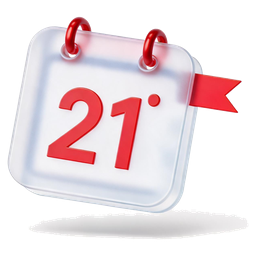
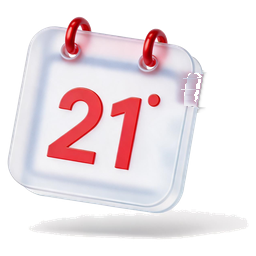
feat: UI优化 - 日历图标去除红旗、放大功能图标、动态日期、活动改名
- 去除日历图标右侧红色旗标
- 日历/活动/抽奖/库存/钱包图标放大
- 日历日期改为动态显示(YYYY/MM格式)，午夜自动更新
- 活动Tab '升级' 改为 '置换'

Changed region(s): [[0.7188, 0.2812, 0.9375, 0.4375]]

diff --git a/jichao-art-source/src/views/Home.vue b/jichao-art-source/src/views/Home.vue
@@ -24,6 +24,25 @@ const now = ref(Date.now())
 let saleTimer = null
 const STATUS_TEXT = { countdown: '距发售', selling: '发售中', soldout: '已售罄' }
 
+// 首发日历：动态日期，午夜自动更新
+const today = ref(new Date())
+const calendarDay = computed(() => today.value.getDate())
+const calendarYm  = computed(() => {
+  const y = today.value.getFullYear()
+  const m = String(today.value.getMonth() + 1).padStart(2, '0')
+  return `${y}/${m}`
+})
+let midnightTimer = null
+function scheduleMidnightUpdate() {
+  const now = new Date()
+  const next = new Date(now.getFullYear(), now.getMonth(), now.getDate() + 1, 0, 0, 1)
+  const ms = next - now
+  midnightTimer = setTimeout(() => {
+    today.value = new Date()
+    scheduleMidnightUpdate()
+  }, ms)
+}
+
 const featuredWithStatus = computed(() => {
   now.value  // touch for reactivity
   return store.featured.map(item => ({
@@ -127,8 +146,9 @@ onMounted(() => {
   if (Math.round(pos.value) >= n) pos.value = 0
   startAuto()
   saleTimer = setInterval(() => { now.value = Date.now() }, 1000)
+  scheduleMidnightUpdate()
 })
-onUnmounted(() => { stopAuto(); if (saleTimer) clearInterval(saleTimer) })
+onUnmounted(() => { stopAuto(); if (saleTimer) clearInterval(saleTimer); if (midnightTimer) clearTimeout(midnightTimer) })
 
 const notices = [
   "司南艺术·全域'生态星推官'共建招募，共创价值！",
@@ -221,8 +241,8 @@ function onSign() {
           <img v-if="calendarIcon?.type === 'image'" :src="calendarIcon.image" class="grid-main__cal-icon" alt="" draggable="false" @contextmenu.prevent />
           <AppIcon v-else-if="calendarIcon?.type === 'svg'" :name="calendarIcon.icon" :size="44" color="#C00000" class="grid-main__cal-icon" />
           <div class="grid-main__date">
-            <strong>21</strong>
-            <span>2024.11.11</span>
+            <strong>{{ calendarDay }}</strong>
+            <span>{{ calendarYm }}</span>
           </div>
         </div>
         <AppButton size="small" @click.stop="goCalendar">去看看</AppButton>
@@ -433,11 +453,11 @@ function onSign() {
     &__title { font-size: 15px; font-weight: 700; color: $color-text-primary; }
     &__sub { display: block; font-size: 11px; color: $color-text-tertiary; margin-top: 4px; }
     &__cal { display: flex; align-items: center; gap: 8px; }
-    // 图标视觉放大到 58px，负边距抵消增量，卡片高度不变
-    &__cal-icon { width: 58px; height: 58px; margin: -7px 0; flex: none; object-fit: contain; -webkit-user-drag: none; -webkit-touch-callout: none; user-select: none; pointer-events: none; }
-    &__date { display: flex; flex-direction: column; line-height: 1.1;
-      strong { font-size: 22px; color: $color-primary; font-family: $font-price; }
-      span { font-size: 11px; color: $color-text-tertiary; }
+    // 图标视觉放大到 66px，负边距抵消增量，卡片高度不变
+    &__cal-icon { width: 66px; height: 66px; margin: -11px 0; flex: none; object-fit: contain; -webkit-user-drag: none; -webkit-touch-callout: none; user-select: none; pointer-events: none; }
+    &__date { display: flex; flex-direction: column; align-items: center; line-height: 1.1; margin-left: 6px;
+      strong { font-size: 26px; color: $color-primary; font-family: $font-price; }
+      span { font-size: 13px; color: $color-text-tertiary; }
     }
     :deep(.app-btn) { margin-top: auto; }
   }
@@ -451,8 +471,8 @@ function onSign() {
     &__tag {
       width: 40px; height: 40px; border-radius: 8px; background: transparent; flex: none; overflow: visible;
       display: flex; align-items: center; justify-content: center;
-      // 图标视觉放大到 48px，超出 40px 容器但不影响卡片高度
-      img { width: 48px; height: 48px; object-fit: contain; -webkit-user-drag: none; -webkit-touch-callout: none; user-select: none; pointer-events: none; }
+      // 图标视觉放大到 56px，超出 40px 容器但不影响卡片高度
+      img { width: 56px; height: 56px; object-fit: contain; -webkit-user-drag: none; -webkit-touch-callout: none; user-select: none; pointer-events: none; }
     }
     &__sub { font-size: 11px; color: $color-text-tertiary; }
   }

diff --git a/jichao-art-source/src/views/User.vue b/jichao-art-source/src/views/User.vue
@@ -135,7 +135,7 @@ function logout() {
 .asset-card {
   flex: 1; background: $color-card; border-radius: $radius-lg; padding: 10px;
   display: flex; align-items: center; gap: 12px; cursor: pointer;
-  &__icon { width: 40px; height: 40px; flex: none; object-fit: contain; -webkit-user-drag: none; -webkit-touch-callout: none; user-select: none; pointer-events: none; }
+  &__icon { width: 48px; height: 48px; flex: none; object-fit: contain; margin: -4px 0; -webkit-user-drag: none; -webkit-touch-callout: none; user-select: none; pointer-events: none; }
   &__text { display: flex; flex-direction: column; gap: 4px; }
   &__title { font-size: 15px; font-weight: 600; color: $color-text-primary; }
   &__sub { font-size: 12px; color: $color-text-tertiary; }

diff --git a/jichao-art-source/src/views/Activity.vue b/jichao-art-source/src/views/Activity.vue
@@ -10,7 +10,7 @@ const router = useRouter()
 const activityStore = useActivityStore()
 const { synthesisActivities } = storeToRefs(activityStore)
 
-const tabs = ['活动', '升级']
+const tabs = ['活动', '置换']
 const active = ref('活动')
 
 function goSynthesis(id) {
